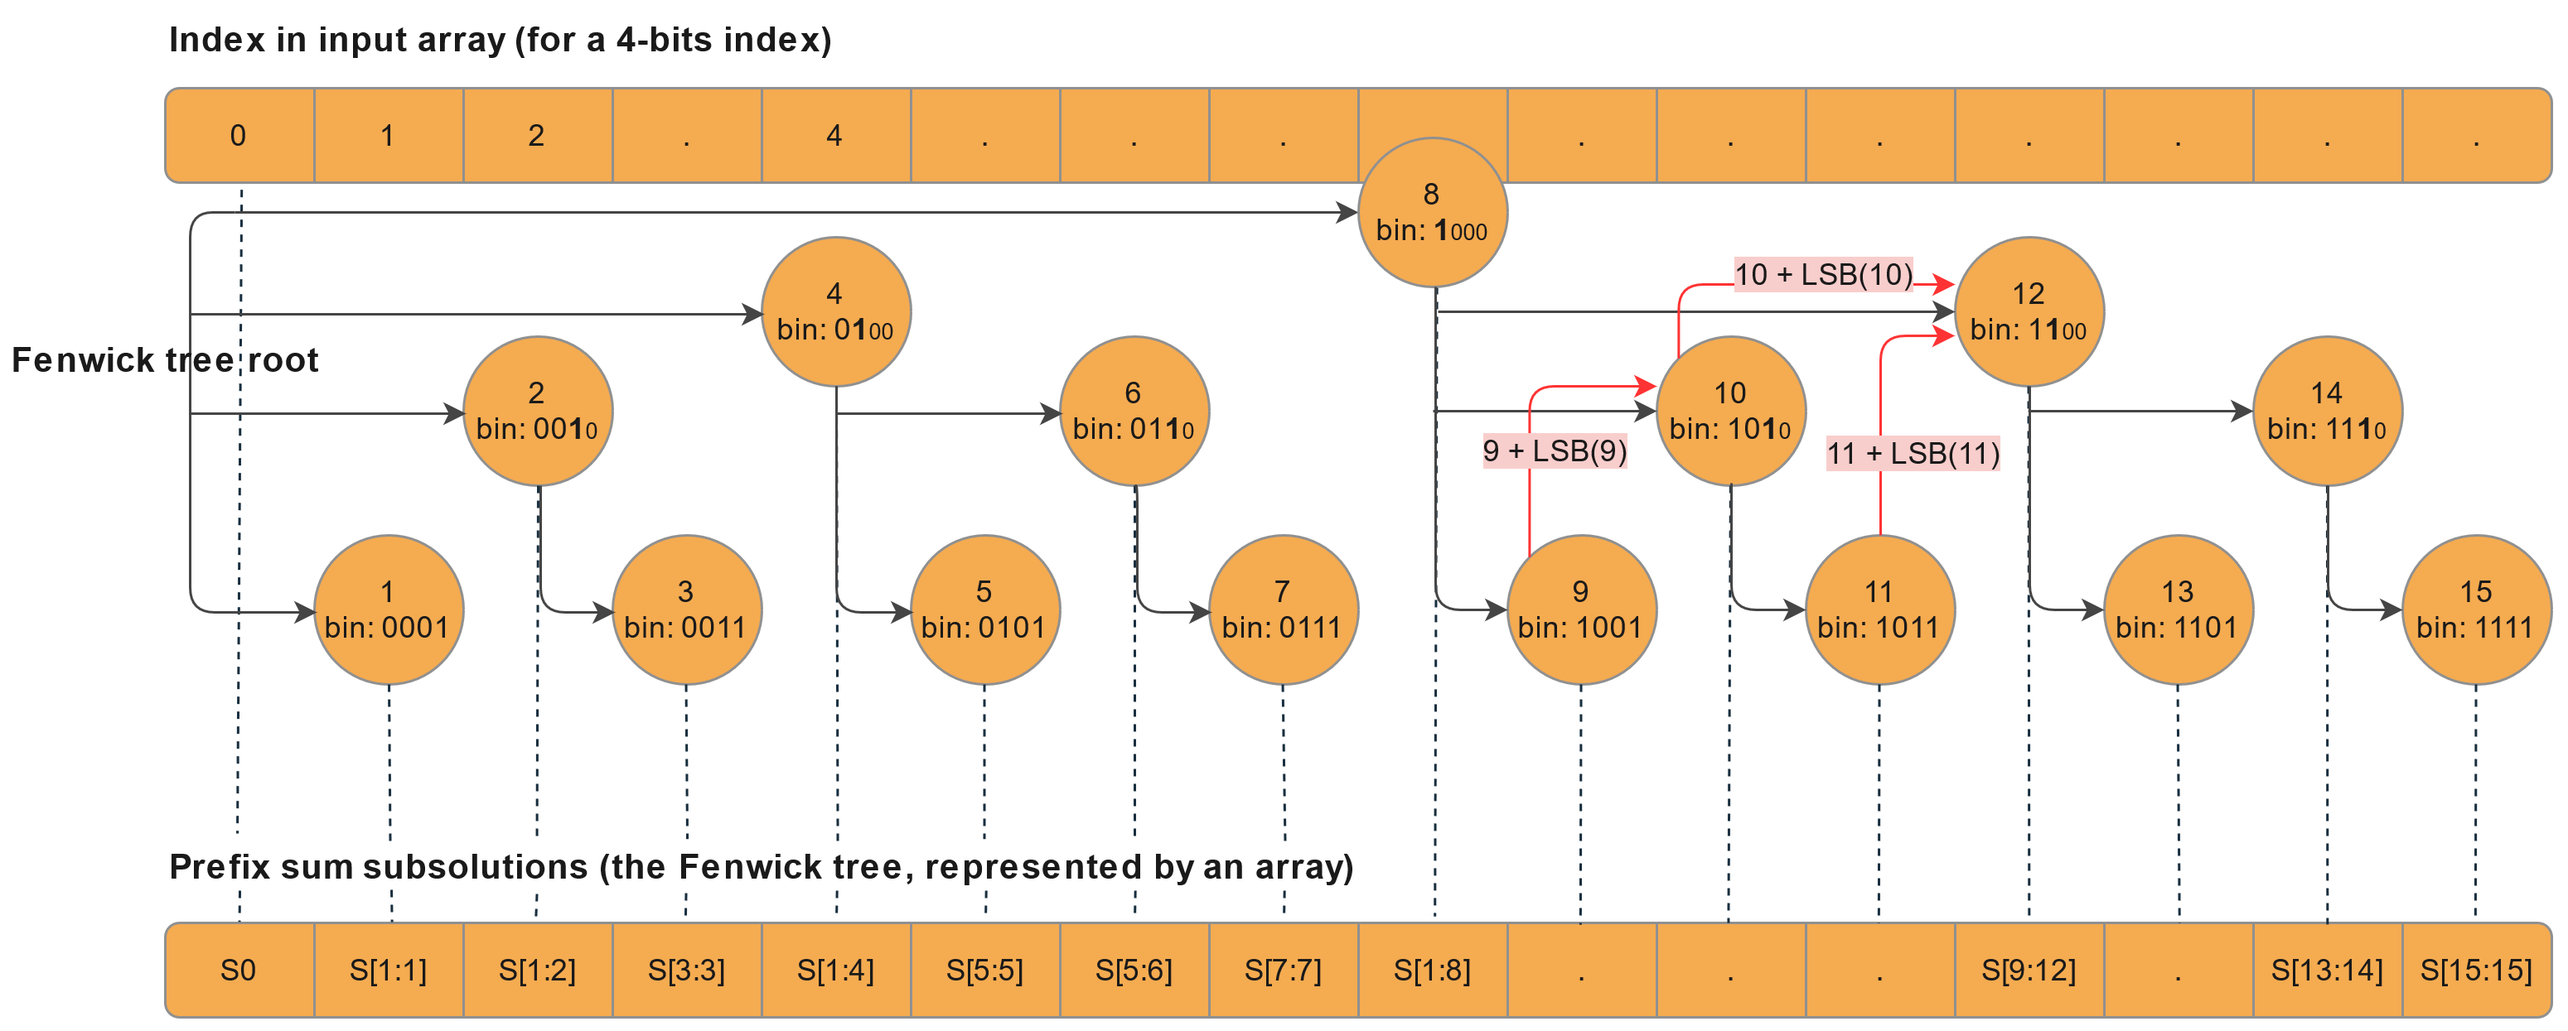
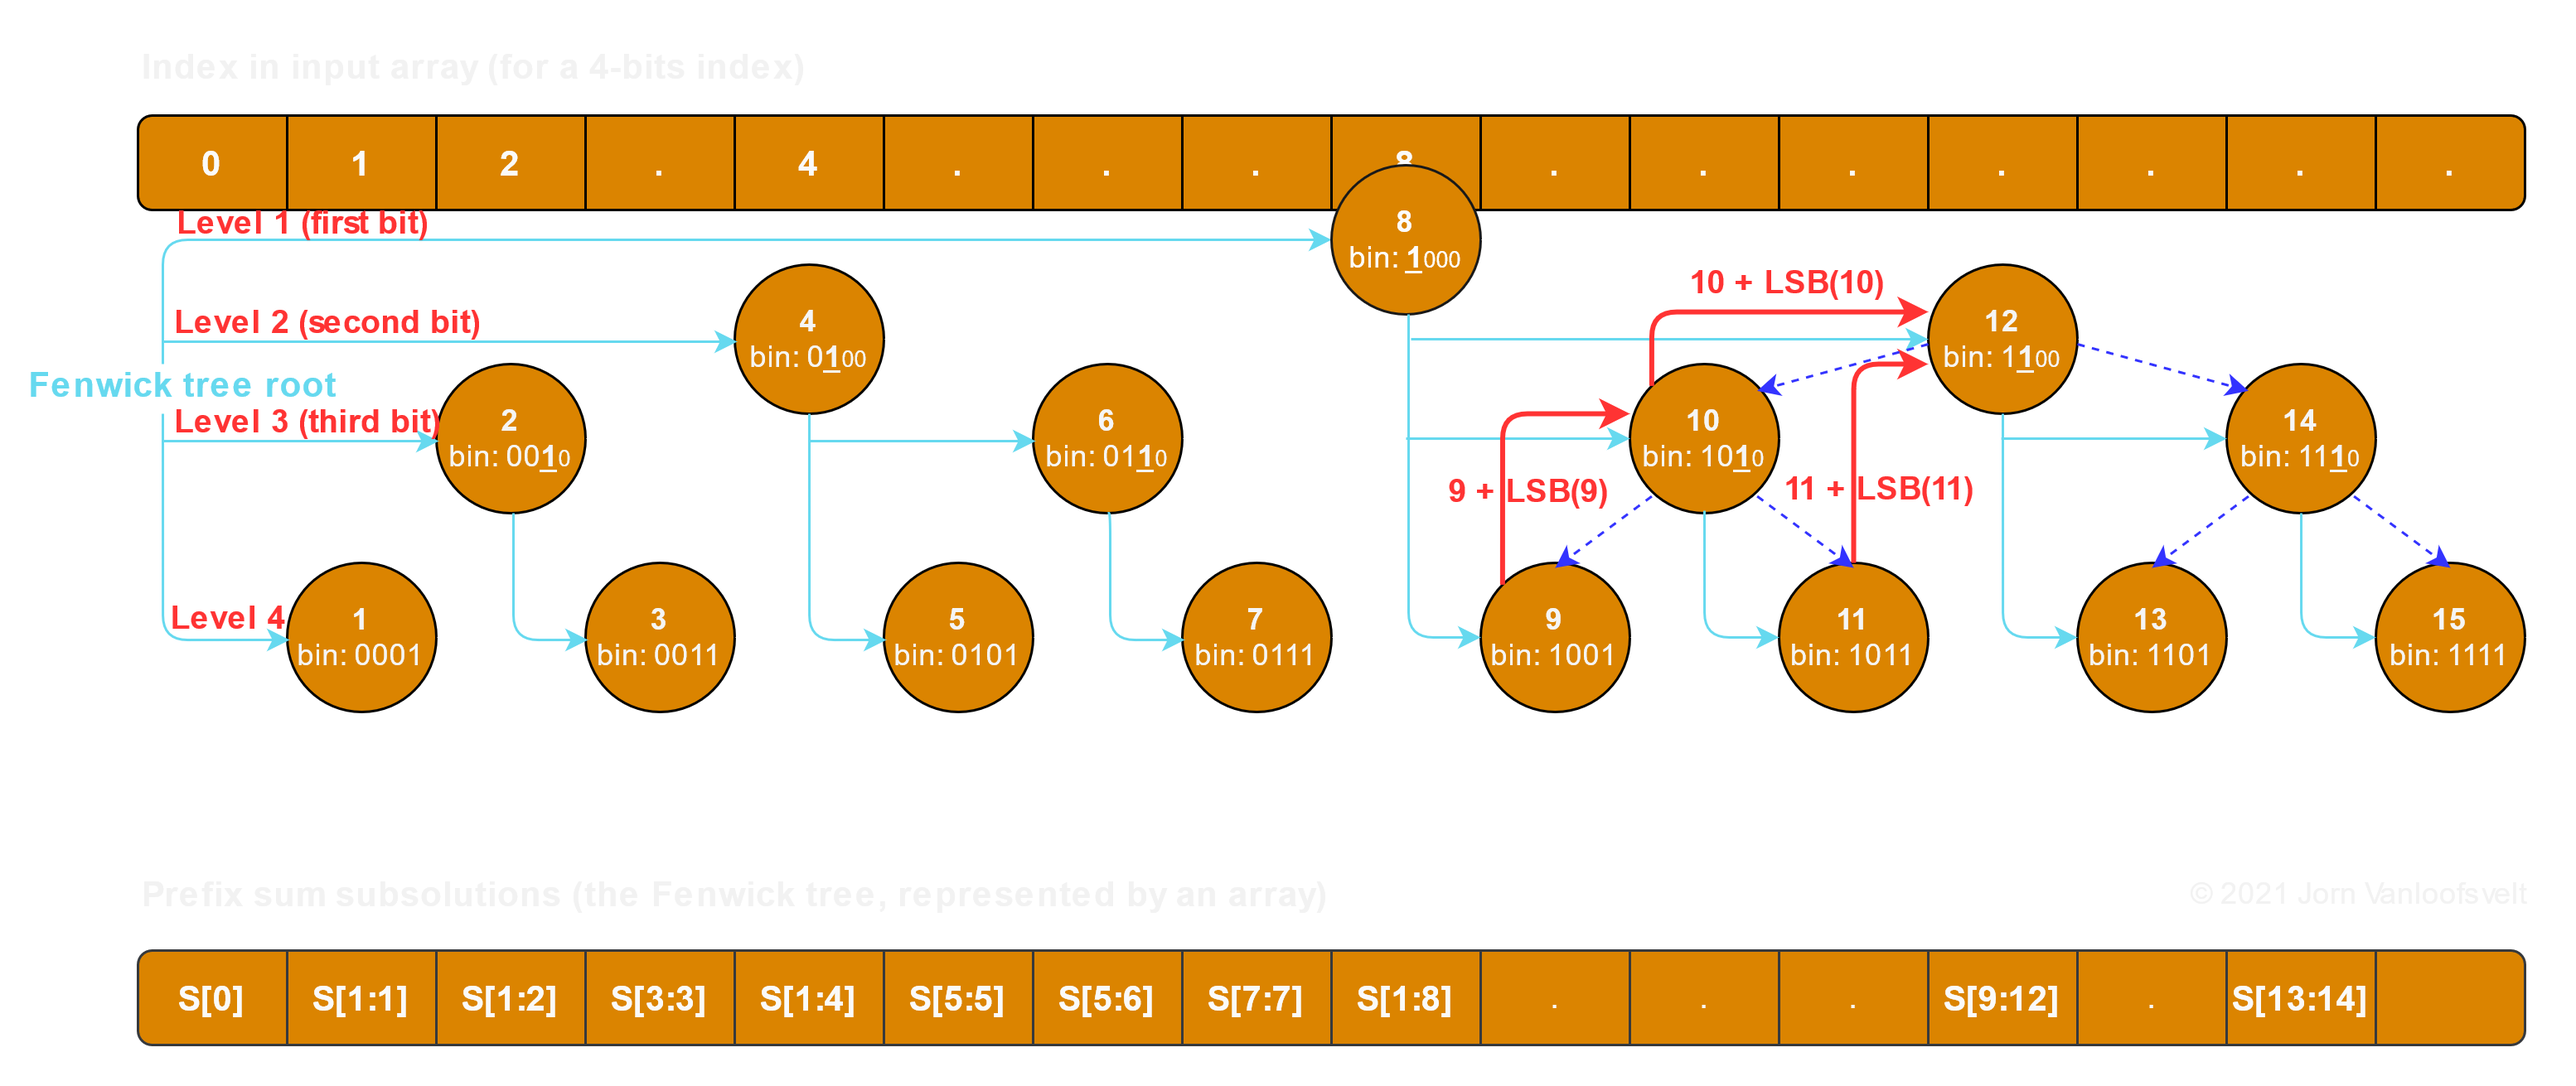
Add image to clarify Fenwick tree traversal by LSB.

diff --git a/content/articles/fenwick-trees/index.md b/content/articles/fenwick-trees/index.md
@@ -116,7 +116,7 @@ Note that index 0 is a separate case, it is not part of the binary tree. The pre
 
 There are quite a few articles on Fenwick trees that try to explain the concept with 1-based indexing because it’s supposedly easier to understand. In my opinion it adds another layer of indirection that is not helpful, and perhaps even confusing. In the drawing we have here, the most significant bit simply divides all non-0 numbers: 1-7 on the left of the root node, and 9-15 on the right. Since this first bit is the entry point for the decomposition of the index number in its separate bits (as described in Key 2), I believe it’s key to have it centered this way.
 
-Now we have an array of prefix sum subsolutions where each element is the sum of a span of elements of the input array. For example, ```S[1:4]``` is the sum of 4 elements of the input array:
+Now we have an array of prefix sum subsolutions where each element is the sum of a span of elements of the input array. For example, \\( S[1:4] \\) is the sum of 4 elements of the input array:
 ```c
 fenwick_tree[4] = input_array[1] + input_array[2] + input_array[3] + input_array[4];
 ```
@@ -174,13 +174,17 @@ int prefix_sum(int i) {
 
 Updating the tree seems to be a little less intuitive. Our Fenwick tree/array contains several overlapping subsolutions for prefix sums, if we update one element of the input array then we need to update several subsolutions in the Fenwick tree. We’d need to add some (and the same) delta to each of those overlapping subsolutions.
 
-We can start at the index of the updated element itself, adding a delta there. Next, we need to update all overlapping subsolutions for indexes that are greater. Only those that are greater, because the prefix sum of smaller indexes should remain unaffected: updating an element in the input array only affects the prefix sum for all indexes that are equal or greater.
+We can start at the index of the updated element itself, adding a delta there. Next, we need to update all overlapping subsolutions for indexes that are greater. Only those that are greater, because the prefix sum of smaller indexes should remain unaffected: updating an element in the input array only affects the prefix sum for all indexes that are equal or greater. As you'll see, it is not as evident as simply traversing up the binary tree from child to parent.
 
-How do we find these other nodes that need to be updated? Note that each overlapping subsolution in the Fenwick tree consecutively finds itself at some level higher in the binary tree, and further to the right at some greater index. To find the first overlapping subsolution we need to add _something_ to our index. Recall that each level of the binary tree corresponds with the position of one bit in the binary numeral; this means that to find the next overlapping subsolution we need to at least trigger a bitwise carry-over when incrementing our index, so that some more significant bit gets set to 1.
+So, how do we find these other nodes that need to be updated? Take a look at the diagram below. Note that each overlapping subsolution in the Fenwick tree consecutively finds itself at some level higher in the binary tree, and further to the right at some greater index. To find the first overlapping subsolution we need to add _something_ to our index. Recall that each level of the binary tree corresponds with the position of one bit in the binary numeral; this means that to find the next overlapping subsolution we need to at least trigger a bitwise carry-over when incrementing our index, so that some more significant bit gets set to 1.
+
+{{< figure src="navigate-by-LSB-300pct.webp" alt="Navigate Fenwick tree by LSB" width="100%" >}}
 
 The smallest number that we can add to our index that will trigger a bitwise carry-over is the number that is represented by its LSB. Adding any smaller number will (by definition of LSB) add positive bits to numeral positions where the bits of the index number were 0, and therefore not trigger a carry-over.
 
-The following sample recursively adds the LSB of i to itself, upating the Fenwick tree along the way:
+Note that \\( 11 + LSB(11) \\)  doesn't take you from a child to a parent node in either the binary tree or the Fenwick tree. It's not that kind of tree traversal.
+
+The following sample recursively adds the LSB of index i to itself, upating the Fenwick tree along the way:
 
 ```c
 void add(int i, int delta) {
